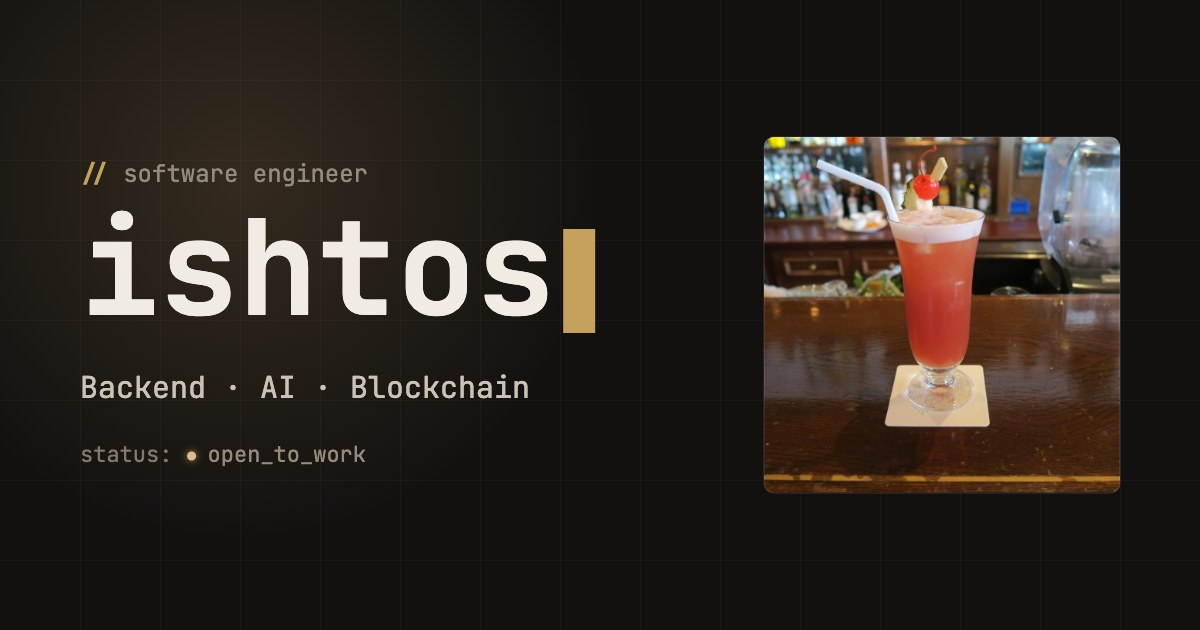
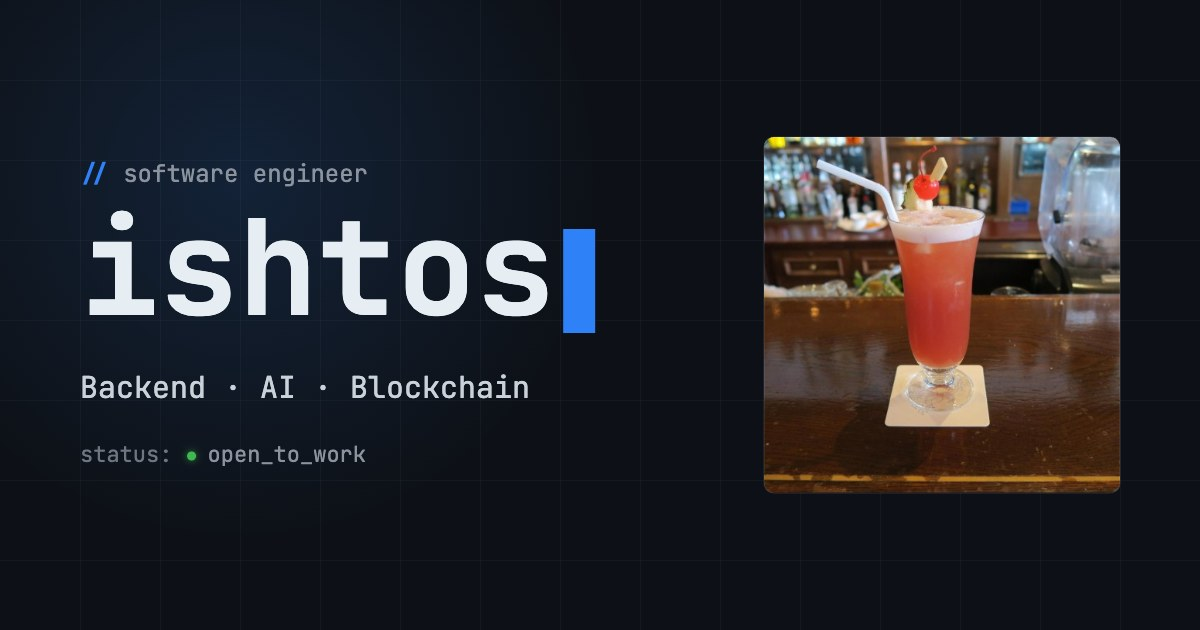
Recolor themes to GitHub Dark / Light (Primer palette)
Dark uses #0d1117 canvas + #2f81f7 blue accent; light uses #ffffff +
#0969da. Status dot now GitHub success green. Updated favicon, OG image,
404 page, theme-color meta, and theme-aware grid/glow to match.

diff --git a/assets/styles.css b/assets/styles.css
@@ -3,19 +3,23 @@
    深いチャコール × 抑えたブラス × 明朝/等幅/ゴシック
    ============================================================ */
 :root {
-  --bg: #131110;
-  --bg-2: #1a1613;
-  --bg-3: #221d19;
-  --ink: #f0ebe3;
-  --ink-soft: #cbc3b6;
-  --muted: #948b7d;
-  --faint: #837a6d;
-  --line: rgba(240, 235, 227, 0.1);
-  --line-2: rgba(240, 235, 227, 0.18);
-  --accent: #c6a15b; /* muted brass */
-  --accent-bright: #dcbe82;
-  --accent-wash: rgba(198, 161, 91, 0.12);
-  --grid-line: rgba(240, 235, 227, 0.022);
+  /* GitHub Dark (Primer) */
+  --bg: #0d1117;
+  --bg-2: #161b22;
+  --bg-3: #21262d;
+  --ink: #e6edf3;
+  --ink-soft: #c9d1d9;
+  --muted: #8b949e;
+  --faint: #6e7681;
+  --line: #21262d;
+  --line-2: #30363d;
+  --accent: #2f81f7;
+  --accent-bright: #58a6ff;
+  --accent-wash: rgba(56, 139, 253, 0.15);
+  --grid-line: rgba(139, 148, 158, 0.06);
+  --glow: rgba(56, 139, 253, 0.13);
+  --success: #3fb950;
+  --success-glow: rgba(63, 185, 80, 0.5);
 
   /* コンテナ幅は rem 基準にして、画面幅に応じて拡大する */
   --wrap: 66rem;
@@ -34,19 +38,23 @@
    Light theme（data-theme="light" のとき上書き。ダークがデフォルト）
    ============================================================ */
 :root[data-theme="light"] {
-  --bg: #f4f1ea;
-  --bg-2: #ece7dd;
-  --bg-3: #e3ddce;
-  --ink: #1c1913;
-  --ink-soft: #4c473f;
-  --muted: #6f6759;
-  --faint: #8c8374;
-  --line: rgba(28, 25, 19, 0.12);
-  --line-2: rgba(28, 25, 19, 0.2);
-  --accent: #9c6f2c;
-  --accent-bright: #7d551c;
-  --accent-wash: rgba(156, 111, 44, 0.12);
-  --grid-line: rgba(28, 25, 19, 0.05);
+  /* GitHub Light (Primer) */
+  --bg: #ffffff;
+  --bg-2: #f6f8fa;
+  --bg-3: #eaeef2;
+  --ink: #1f2328;
+  --ink-soft: #424a53;
+  --muted: #59636e;
+  --faint: #6e7781;
+  --line: #d8dee4;
+  --line-2: #d0d7de;
+  --accent: #0969da;
+  --accent-bright: #0550ae;
+  --accent-wash: rgba(9, 105, 218, 0.1);
+  --grid-line: rgba(31, 35, 40, 0.045);
+  --glow: rgba(9, 105, 218, 0.08);
+  --success: #1a7f37;
+  --success-glow: rgba(26, 127, 55, 0.4);
 }
 
 /* ============================================================
@@ -134,7 +142,7 @@ dd {
   top: -100px;
   z-index: 200;
   background: var(--accent);
-  color: #17140e;
+  color: #ffffff;
   padding: 0.6rem 1rem;
   font-family: var(--mono);
   font-size: 0.85rem;
@@ -443,8 +451,7 @@ body::before {
   aspect-ratio: 1;
   background: radial-gradient(
     circle,
-    rgba(198, 161, 91, 0.16),
-    rgba(198, 161, 91, 0.04) 42%,
+    var(--glow),
     transparent 68%
   );
   pointer-events: none;
@@ -543,17 +550,17 @@ body::before {
   width: 7px;
   height: 7px;
   border-radius: 50%;
-  background: var(--accent-bright);
-  box-shadow: 0 0 8px 1px rgba(220, 190, 130, 0.6);
+  background: var(--success);
+  box-shadow: 0 0 8px 1px var(--success-glow);
   animation: pulse 2.4s ease-in-out infinite;
 }
 @keyframes pulse {
   0%, 100% {
-    box-shadow: 0 0 7px 1px rgba(220, 190, 130, 0.5);
+    box-shadow: 0 0 7px 1px var(--success-glow);
     opacity: 1;
   }
   50% {
-    box-shadow: 0 0 13px 2px rgba(220, 190, 130, 0.9);
+    box-shadow: 0 0 13px 2px var(--success-glow);
     opacity: 0.82;
   }
 }
@@ -768,7 +775,7 @@ body::before {
   background: linear-gradient(
     90deg,
     transparent,
-    rgba(220, 190, 130, 0.5),
+    var(--accent-bright),
     transparent
   );
   opacity: 0;
@@ -844,7 +851,7 @@ body::before {
   aspect-ratio: 1;
   background: radial-gradient(
     circle,
-    rgba(198, 161, 91, 0.12),
+    var(--glow),
     transparent 65%
   );
   pointer-events: none;

diff --git a/404.html b/404.html
@@ -5,7 +5,7 @@
   <meta name="viewport" content="width=device-width, initial-scale=1" />
   <title>404 — Not Found · ishtos</title>
   <meta name="color-scheme" content="dark" />
-  <meta name="theme-color" content="#131110" />
+  <meta name="theme-color" content="#0d1117" />
   <meta name="robots" content="noindex" />
   <link rel="icon" type="image/svg+xml" href="/assets/favicon.svg" />
   <style>
@@ -15,12 +15,12 @@
       display: flex;
       align-items: center;
       justify-content: center;
-      background: #131110;
-      color: #f0ebe3;
+      background: #0d1117;
+      color: #e6edf3;
       font-family: "JetBrains Mono", ui-monospace, "SFMono-Regular", Menlo, monospace;
       background-image:
-        linear-gradient(to right, rgba(240, 235, 227, 0.022) 1px, transparent 1px),
-        linear-gradient(to bottom, rgba(240, 235, 227, 0.022) 1px, transparent 1px);
+        linear-gradient(to right, rgba(139, 148, 158, 0.06) 1px, transparent 1px),
+        linear-gradient(to bottom, rgba(139, 148, 158, 0.06) 1px, transparent 1px);
       background-size: 80px 80px;
     }
     .box { padding: 2rem; max-width: 90%; }
@@ -30,20 +30,20 @@
       letter-spacing: -0.04em;
       line-height: 1;
     }
-    .msg { color: #948b7d; font-size: 0.95rem; margin: 1.25rem 0 2rem; }
-    .msg b { color: #c6a15b; font-weight: 500; }
+    .msg { color: #8b949e; font-size: 0.95rem; margin: 1.25rem 0 2rem; }
+    .msg b { color: #58a6ff; font-weight: 500; }
     a.home {
       display: inline-flex;
       align-items: center;
       gap: 0.5em;
-      color: #f0ebe3;
+      color: #e6edf3;
       text-decoration: none;
       font-size: 0.95rem;
       padding-bottom: 3px;
-      border-bottom: 1px solid rgba(240, 235, 227, 0.18);
+      border-bottom: 1px solid #30363d;
     }
-    a.home span { color: #c6a15b; }
-    a.home:hover { color: #dcbe82; border-color: #c6a15b; }
+    a.home span { color: #58a6ff; }
+    a.home:hover { color: #58a6ff; border-color: #2f81f7; }
   </style>
 </head>
 <body>

diff --git a/assets/main.js b/assets/main.js
@@ -20,7 +20,7 @@
   (function () {
     var root = document.documentElement;
     var meta = document.querySelector('meta[name="theme-color"]');
-    var COLORS = { dark: "#131110", light: "#f4f1ea" };
+    var COLORS = { dark: "#0d1117", light: "#ffffff" };
     var apply = function (theme) {
       root.setAttribute("data-theme", theme);
       if (meta) meta.setAttribute("content", COLORS[theme] || COLORS.dark);

diff --git a/index.html b/index.html
@@ -51,7 +51,7 @@
   <link rel="icon" type="image/svg+xml" href="assets/favicon.svg" />
 
   <meta name="color-scheme" content="dark light" />
-  <meta name="theme-color" content="#131110" />
+  <meta name="theme-color" content="#0d1117" />
 
   <!-- 構造化データ（検索エンジンに「人物」として認識させる） -->
   <script type="application/ld+json">